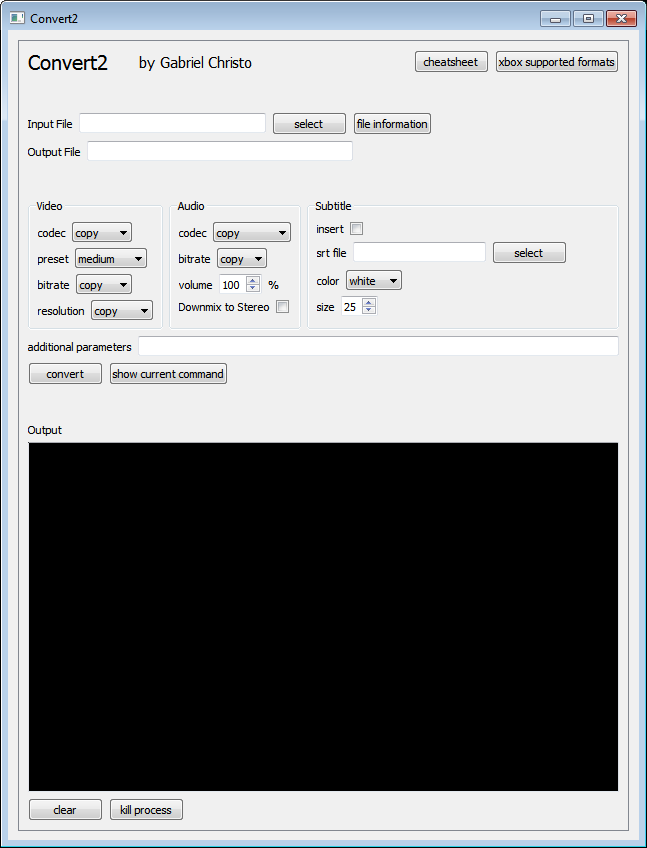
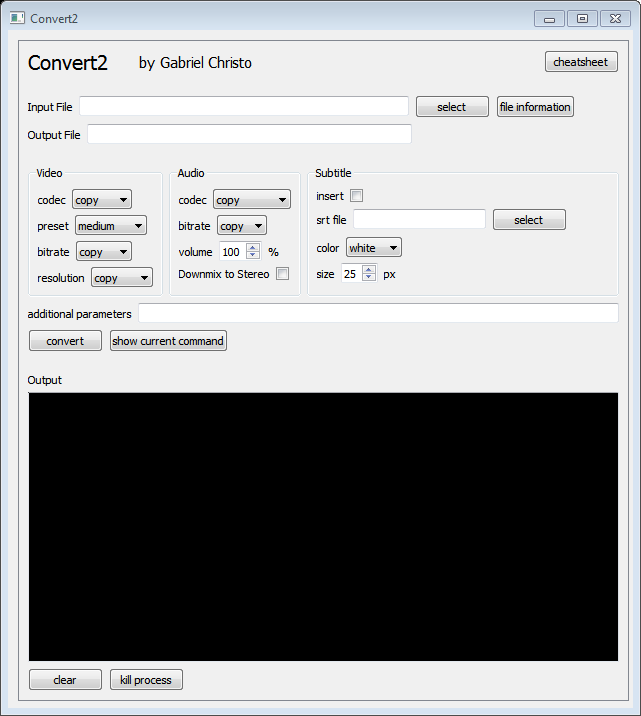
scrollable popup; fixed aac option and additional parameters bug; added new info to cheatsheet; file checking improved

Changed region(s): [[0.0, 0.0, 1.0, 1.0], [0.7488, 0.2765, 0.8736, 0.338]]

diff --git a/convert2.py b/convert2.py
@@ -15,6 +15,7 @@ from PyQt5 import QtWidgets, QtGui, QtCore, uic
 from PyQt5.QtWidgets import QFileDialog, QMainWindow, QInputDialog, QMessageBox
 from PyQt5.QtCore import Qt, QDir, QProcess
 from commandBuilder import *
+from scrollablePopup import *
 
 class Convert2(QMainWindow):
 
@@ -26,6 +27,7 @@ class Convert2(QMainWindow):
 		self.path = QDir.currentPath()
 		self.process = QProcess(self)
 		self.process.setProcessChannelMode(QProcess.MergedChannels)
+		self.popup = scrollablePopup()
 		self.connects()
 		
 	def connects(self):
@@ -34,7 +36,6 @@ class Convert2(QMainWindow):
 		self.selectInputButton.clicked.connect(self.select_input_file) # select input file
 		self.sSelectButton.clicked.connect(self.select_srt_file) # select subtitle file
 		self.infoButton.clicked.connect(self.show_info) # show selected file info
-		self.xboxButton.clicked.connect(self.show_xbox_info) # show xbox supported formats
 		self.clearOutputButton.clicked.connect(lambda: self.output.clear()) # clear process output text
 		self.process.readyRead.connect(self.print_output) # show last output from process
 		self.killButton.clicked.connect(self.kill_process) # kills ffmpeg process
@@ -71,6 +72,10 @@ class Convert2(QMainWindow):
 		
 	def check_files_are_selected(self) -> bool:
 		# check needed files are selected
+		if(self.inputFile.text() == ""):
+			self.show_message_box("Choose a input file", "No file selected"); return False
+		elif(self.sCheckbox.isChecked() and self.sFilePath.text() == ""):
+			self.show_message_box("Choose a subtitle file", "No file selected"); return False
 		return True
 		
 	def start(self, cmd: Tuple[str, List]) -> None:
@@ -97,20 +102,19 @@ class Convert2(QMainWindow):
 		filename = QFileDialog.getOpenFileName(self, "Choose Subtitle", self.path)
 		if filename[0]:
 			self.path = filename[0]; self.sFilePath.setText(self.path)
-	
-	@pyqtSlot()
-	def show_xbox_info(self) -> None:
-		self.show_message_box(XBOX_FORMATS, "Xbox Supported Formats")
 		
 	@pyqtSlot()
 	def show_current_cmd(self) -> None:
-		cmdTuple = self.command.get_convert_cmd(**(self.get_inputs_dict()))
-		self.show_message_box(' '.join(cmdTuple[1]), "Current FFMPEG Command")
+		if self.check_files_are_selected():
+			cmdTuple = self.command.get_convert_cmd(**(self.get_inputs_dict()))
+			self.show_message_box(' '.join([cmdTuple[0]] + cmdTuple[1]), "Current FFMPEG Command")
 		
 	@pyqtSlot()
 	def show_cheatsheet(self) -> None:
-		self.show_message_box(CHEATSHEET, "FFMPEG Cheatsheet")
-	
+		self.popup.setText(CHEATSHEET + XBOX_FORMATS)
+		self.popup.setTitle("FFMPEG Cheatsheet")
+		self.popup.show()
+		
 	def show_message_box(self, text: str, title: str) -> None:
 		msgBox = QMessageBox();
 		msgBox.setIcon(QMessageBox.Information)

diff --git a/constants.py b/constants.py
@@ -1,4 +1,4 @@
-DEBUG = True
+DEBUG = False
 
 # ffmpeg executable names
 FFMPEG = "ffmpeg"
@@ -52,29 +52,47 @@ FILEINFO = HIDE_BANNER + ["-v", "quiet", "-print_format", "json", "-show_format"
 # -movflags and +faststart allows to playback the media without have completed the download/conversion
 DEFAULT = ["-threads", "0", "-movflags", "+faststart"]
 
-XBOX_FORMATS = """AVI: Video Simple/Advanced 5Mbps 1280x720@30 | Audio Dolby 2ch/5.1ch or MP3\n
-WMV: Video WMV7,8,9/VC1 Simple/Advanced/Main/High3 15Mbps 1920x1080@30 | Audio WMA 7,8,9 Pro,Lossless\n
-H.264: Video Baseline/Main/High4.1 10Mbps 1920x1080@30 | Audio AAC LC 2ch\n
-MPEG-4: Video Simple/Advanced 5Mbps 1280x720@30 | Audio AAC LC 2ch"""
+XBOX_FORMATS = """<h4>Xbox 360 Supported Formats</h4>
+<p>AVI: Video Simple/Advanced 5Mbps 1280x720@30 | Audio Dolby 2ch/5.1ch or MP3</p>
+<p>WMV: Video WMV7,8,9/VC1 Simple/Advanced/Main/High3 15Mbps 1920x1080@30 | Audio WMA 7,8,9</p>
+<p>H.264: Video Baseline/Main/High4.1 10Mbps 1920x1080@30 | Audio AAC LC 2ch</p>
+<p>MPEG-4: Video Simple/Advanced 5Mbps 1280x720@30 | Audio AAC LC 2ch</p>"""
 
 CHEATSHEET = """
-<h3>Streams</h3>
+<h4>Streams</h4>
 <p>-map 0:1 means stream 1 from first input file</p>
 <p>-map 1:0 means stream 0 from second input file</p>
-<h3>Delay Audio and Video</h3>
+
+<h4>Delay Audio and Video</h4>
 <p>-i input.mp4 -i input.mp4 -itsoffset 3.84 (seconds) -map 0:v -map 1:a</p>
-<h3>Delay Subtitle</h3>
+
+<h4>Delay Subtitle</h4>
 <p>-i sub.srt -itsoffset 2.5 -c copy sub_out.srt</p>
-<h3>Trim Video</h3>
+
+<h4>Trim Video</h4>
 <p>-ss 00:00:10 -to 00:00:20</p>
-<h3>Crop Video</h3>
+
+<h4>Crop Video</h4>
 <p>-filter:v "crop=width:height:x:y"</p>
 <p>x, y: starting position and width, height: rectangle size</p>
-<h3>x264 Profiles</h3>
+
+<h4>x264 Profiles</h4>
 <p>-profile:v [main, high, baseline]</p>
 <p>-level:v [4.0, 4.1, ...]</p>
-<h3>Remove Streams</h3>
-<p>-[a, s, v]n</p>
-"""
 
+<h4>Remove Streams</h4>
+<p>-[a, s, v]n</p>
+
+<h4>Dynamic Range Compression</h4>
+<p>Get the audio volume info:</p>
+<p>-af volumedetect -vn null</p>
+<p>To apply the filter:</p>
+<p>-filter_complex "compand=attacks=0:points=-40/-10|-1/10|0/0:gain=3"</p>
+<p>Generate wave form image:</p>
+<p>-filter_complex showwavespic -frames:v 1</p>
+
+<h4>Normalize Audio</h4>
+<p>I:target loudness in LUFs LRA:loudness range TP:true peak</p>
+<p>-af loudnorm=I=-23:LRA=7:tp=-2</p>
+"""
 

diff --git a/commandBuilder.py b/commandBuilder.py
@@ -73,7 +73,7 @@ class CmdBuilder(QObject):
 		else: return VIDEO_BITRATE + [self.vbitrate] + MAX_RATE + [self.vbitrate] + BUFSIZE
 		
 	def get_audio_codec_cmd(self) -> List[str]:
-		return AUDIO_CODEC + [self.acodec] + (AAC_OPTION if self.acodec == "aac" else [])
+		return AUDIO_CODEC + [self.acodec]
 		
 	def get_video_resolution_cmd(self) -> List[str]:
 		if self.vresolution == "copy": return []
@@ -100,9 +100,9 @@ class CmdBuilder(QObject):
 		cmd += self.get_audio_bitrate_cmd()
 		cmd += self.get_audio_downmix_cmd()
 		cmd += self.get_audio_volume_cmd()
-		cmd += DEFAULT
 		additional = kwargs.get('a')
-		if(len(additional) > 0): cmd += [additional]
+		if(len(additional) > 0): cmd += additional.split()
+		cmd += DEFAULT
 		cmd += [kwargs.get('o')]
 		if DEBUG: print(' '.join(cmd))
 		return FFMPEG, cmd

diff --git a/scrollablePopup.py b/scrollablePopup.py
@@ -1,0 +1,23 @@
+
+from PyQt5.QtWidgets import QScrollArea, QWidget, QVBoxLayout, QLabel
+from PyQt5.QtCore import Qt
+
+class scrollablePopup(QScrollArea):
+
+	def __init__(self) -> None:
+		super(__class__, self).__init__()
+		self._widget = QWidget()
+		self._layout = QVBoxLayout(self._widget)
+		self._layout.setAlignment(Qt.AlignTop)
+		self._label = QLabel()
+		self._layout.addWidget(self._label)
+		self.setWidget(self._widget)
+		self.setWidgetResizable(True)
+		self.setFixedWidth(530)
+		self.setFixedHeight(630)
+		
+	def setText(self, text: str) -> None:
+		self._label.setText(text)
+		
+	def setTitle(self, title: str) -> None:
+		self.setWindowTitle(title)

diff --git a/README.md b/README.md
@@ -10,4 +10,4 @@ Ensure that you have ffmpeg and ffprobe on your path
 pip install -r requirements.txt
 ```
 
-<img src="screenshot.png" width="647" height="848">
+<img src="screenshot.png" width="641" height="716">
